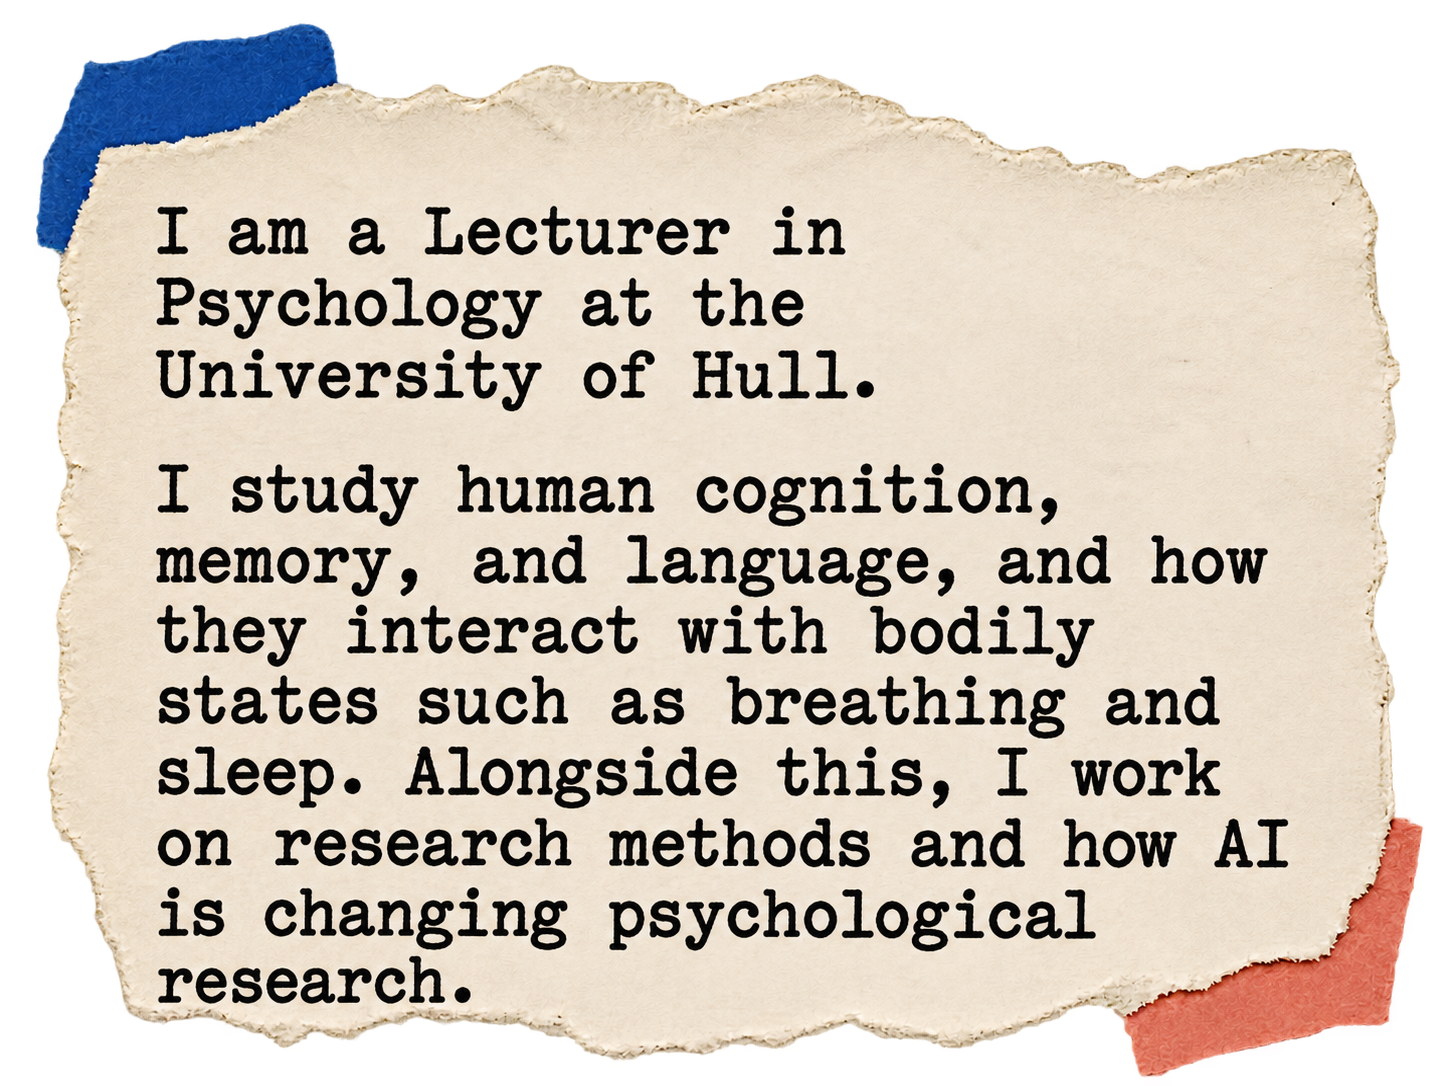
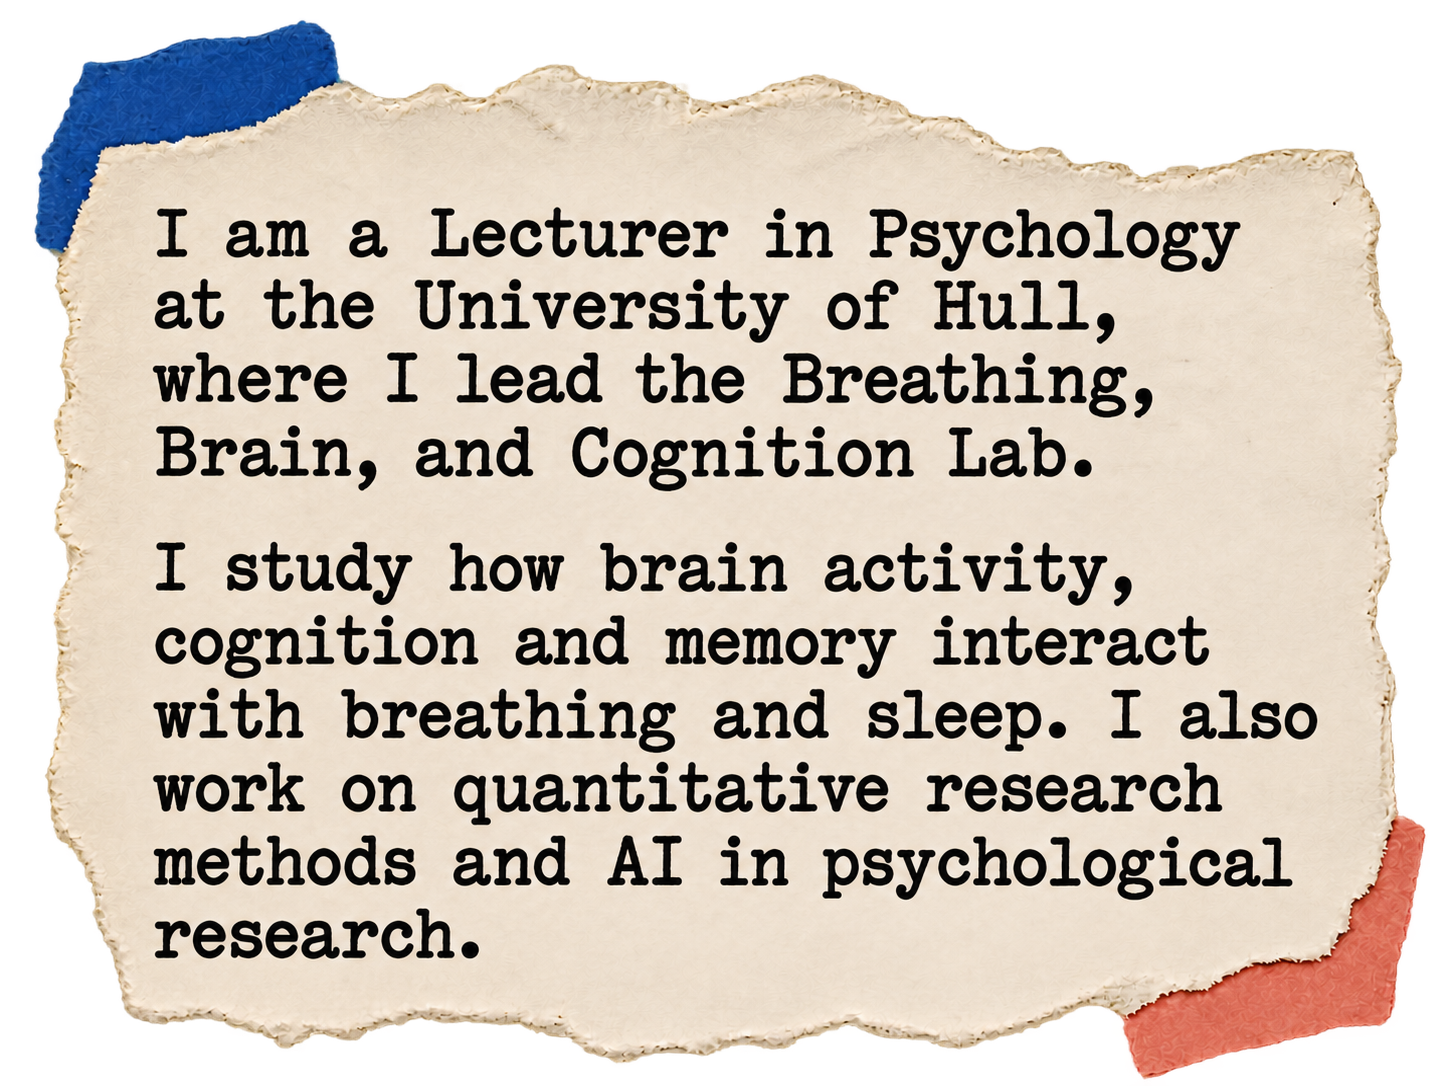
content: refresh homepage introduction and lab opening

diff --git a/revamp/homepage-artwork.md b/revamp/homepage-artwork.md
@@ -14,9 +14,24 @@ Updated cut-paper and vintage engraving collage centred on a substantial brain, 
 
 ## Introduction: `images/collage/introduction-note.png`
 
-Updated torn cream paper note, cobalt blue and coral tabs, and black vintage typewriter lettering. The supplied PNG is preserved at 1448 × 1086 pixels with its alpha channel. It contains the following agreed wording, also used as the image alt text:
+Regenerated with the built-in imagegen tool on 31 October 2026 to reflect the Breathing, Brain, and Cognition Lab. Torn cream paper note, cobalt blue and coral tabs, and black vintage typewriter lettering. The PNG is preserved at 1448 × 1086 pixels with its alpha channel. It contains the following agreed wording, also used as the image alt text:
 
-> I am a Lecturer in Psychology at the University of Hull. I study human cognition, memory, and language, and how they interact with bodily states such as breathing and sleep. Alongside this, I work on research methods and how AI is changing psychological research.
+> I am a Lecturer in Psychology at the University of Hull, where I lead the Breathing, Brain, and Cognition Lab.
+>
+> I study how brain activity, cognition and memory interact with breathing and sleep. I also work on quantitative research methods and AI in psychological research.
+
+### Introduction edit prompt, 31 October 2026
+
+```text
+Use case: text-localization.
+Edit target: the supplied homepage introduction note. Keep its torn warm cream paper silhouette, paper texture, cobalt blue tab at top left, salmon coral tab at bottom right, black vintage typewriter lettering and transparent background. Replace all text with EXACTLY these two paragraphs, with correct spelling and punctuation:
+
+I am a Lecturer in Psychology at the University of Hull, where I lead the Breathing, Brain, and Cognition Lab.
+
+I study how brain activity, cognition and memory interact with breathing and sleep. I also work on quantitative research methods and AI in psychological research.
+
+Keep the same 4:3 landscape proportions and generous legible left-aligned type. Fit the complete text comfortably on the paper with consistent font size, enough margin and a clear paragraph break. Preserve genuine alpha transparency outside the paper and tabs. No extra text, illustration, frame, shadow, or website mockup.
+```
 
 ## Research background: `images/collage/research.webp`
 

diff --git a/index.md b/index.md
@@ -10,7 +10,7 @@ redirect_from:
 
 <section class="home-composition" aria-label="About my work">
   <div class="home-introduction">
-    <img class="intro-note" src="{{ '/images/collage/introduction-note.png' | relative_url }}" alt="I am a Lecturer in Psychology at the University of Hull. I study human cognition, memory, and language, and how they interact with bodily states such as breathing and sleep. Alongside this, I work on research methods and how AI is changing psychological research." width="1448" height="1086" />
+    <img class="intro-note" src="{{ '/images/collage/introduction-note.png' | relative_url }}" alt="I am a Lecturer in Psychology at the University of Hull, where I lead the Breathing, Brain, and Cognition Lab. I study how brain activity, cognition and memory interact with breathing and sleep. I also work on quantitative research methods and AI in psychological research." width="1448" height="1086" />
   </div>
   <img class="home-brain" src="{{ '/images/collage/brain-language.png' | relative_url }}" alt="A cut-paper and vintage engraving collage of a brain, lungs, eye, physiological waveform, and the words breathing, cognition, memory, open science and AI." width="1536" height="1024" fetchpriority="high" />
 </section>

diff --git a/lab.md b/lab.md
@@ -8,7 +8,7 @@ published: true
 
 The Breathing, Brain, and Cognition (BBC) Lab at the University of Hull investigates how human breathing interacts with brain activity, perception, attention, memory, sleep, and wellbeing.
 
-Breathing is more than gas exchange. Nasal and oral pathways, the phase of each breath, and shifts in respiratory rate and variability are coupled to brain rhythms, autonomic state, and cognitive performance. At the same time, cognitive demands reshape how we breathe.
+Breathing is more than gas exchange. Its pathways, rhythms and variability are closely linked to brain activity and bodily arousal. We study how these relationships shape attention and memory, and how cognitive demands in turn change the way we breathe.
 
 ## Current themes
 
